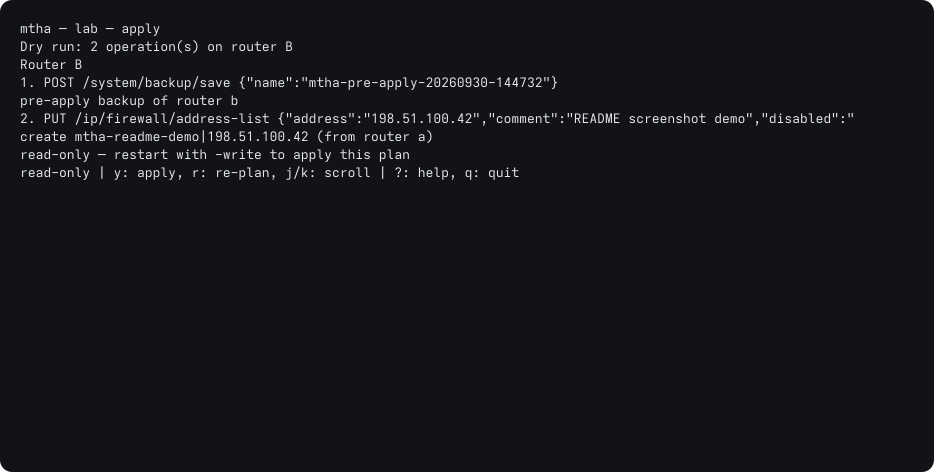
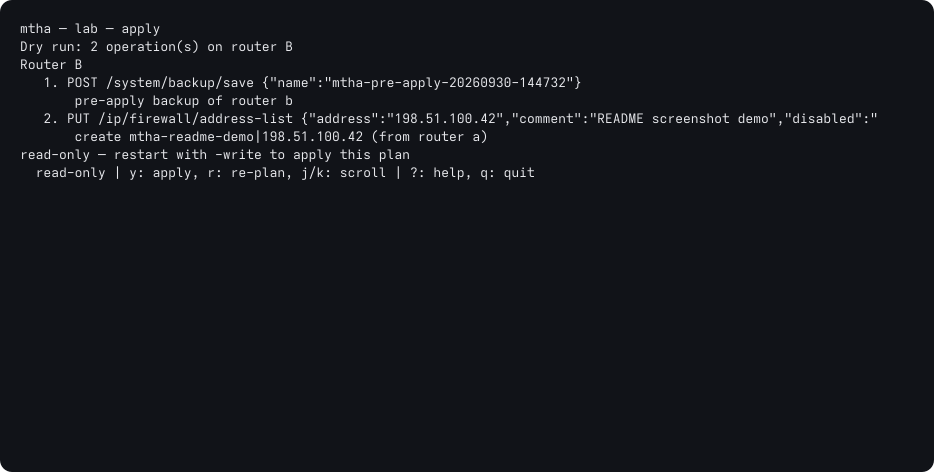
fix screenshot whitespace rendering

Changed region(s): [[0.031, 0.1483, 0.9315, 0.2966], [0.031, 0.3559, 0.5899, 0.3856]]

diff --git a/docs/images/render.py b/docs/images/render.py
@@ -8,7 +8,7 @@ width, line_h, pad = cols * 8.2 + 32, 18, 20
 height = max(1, len(lines)) * line_h + pad * 2
 parts = [f'<svg xmlns="http://www.w3.org/2000/svg" width="{width:.0f}" height="{height:.0f}" viewBox="0 0 {width:.0f} {height:.0f}">',
          f'<rect width="100%" height="100%" rx="12" fill="#111318"/>',
-         f'<text x="{pad}" y="{pad + 13}" fill="#e8e9ed" font-family="Adwaita Mono,DejaVu Sans Mono,monospace" font-size="13">']
+         f'<text xml:space="preserve" x="{pad}" y="{pad + 13}" fill="#e8e9ed" font-family="Adwaita Mono,DejaVu Sans Mono,monospace" font-size="13">']
 for i, line in enumerate(lines):
     if i:
         parts.append(f'<tspan x="{pad}" dy="{line_h}">')
